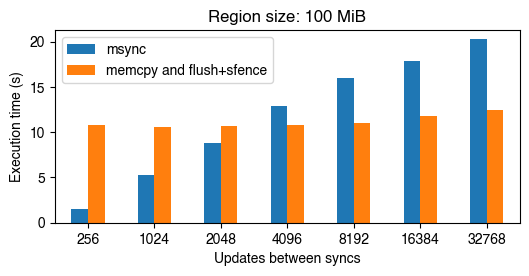
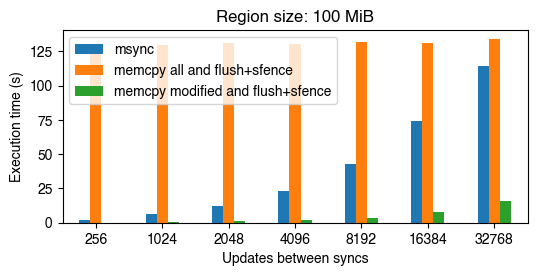
Add support for selective memcpy to periodic-msync

diff --git a/src/examples/periodic-msync.cc b/src/examples/periodic-msync.cc
@@ -12,27 +12,39 @@
 #include <immintrin.h>
 
 using hrc = std::chrono::high_resolution_clock;
-constexpr size_t MAP_SIZE = 100*1024*1024; // 100 MiB
+constexpr size_t MAP_SIZE = 1024*1024*1024; // 100 MiB
 
 char *buf, *vol_buf, *pm_buf;
 
+#define CL_ALIGN(val) ((typeof(val))(((uint64_t)val>>6)<<6))
+
 void us_msync(void *addr, size_t bytes) {
+  /* Copy the pm_buf to vol_buf and then flush every pm_buf location to the
+     device */
   std::memcpy(pm_buf, vol_buf, bytes);
   for (size_t cur_b = 0; cur_b < bytes; cur_b+=64) {
+    /* CLWB takes a location and writes back the containing cacheline */
     _mm_clwb((void*)((char*)pm_buf+cur_b));
   }
   _mm_sfence();
 }
 
-void flush_locations(const std::vector<void*> &locs) {
-  // std::memcpy(pm_buf, vol_buf, bytes);
-  // for (size_t cur_b = 0; cur_b < bytes; cur_b+=64) {
-  //   _mm_clwb((void*)((char*)pm_buf+cur_b));
-  // }
-  // _mm_sfence();
+void flush_locations(const std::vector<void*> &locs, size_t region_sz_bytes) {
+  /* Iterate over all the locations and flush the underlying cacheline */
+  for (auto &loc : locs) {
+    void *src_loc = (char*)vol_buf + ((uint64_t)loc-(uint64_t)pm_buf);
+    void *dst_loc = loc;
+    *((uint8_t*)dst_loc) = *((uint8_t*)src_loc);
+  }
+
+  for (auto &loc : locs) {
+    _mm_clwb(loc);
+  }
+
+  _mm_sfence();
 }
 
-int main(int argc, char *argv[]) {
+int main(int argc, char *argv[]) {  
   if (argc != 4) {
     fprintf(stderr, "USAGE:\n\t%s <path to buffer> <path to backing PM file> <update count>\n",
             argv[0]);
@@ -41,7 +53,7 @@ int main(int argc, char *argv[]) {
 
   size_t update_cnt = std::stoull(argv[3]);
 
-  /* File opened on PM using mmap and flushed using msync */
+  /* File opened on PM using mmap w/o DAX and flushed using msync */
   std::string fname = std::string(argv[1]);
   int fd = open(fname.c_str(), O_RDWR);
   if (fd == -1) {
@@ -96,9 +108,34 @@ int main(int argc, char *argv[]) {
   }
   auto no_msync_time = (hrc::now()-begin).count();
 
+  iter = 0;
+
+  /* Reserve the space for the vector before starting the measurement. THis is
+     done to get the best case performance numbers */
+  std::vector<void*> locs;
+  locs.reserve(update_cnt);
+
+  begin = hrc::now();
+  while (iter++ < 4096) {
+    size_t wr_cnt = 0;
+    while (wr_cnt++ < update_cnt) {
+      size_t ind = rand()%MAP_SIZE;
+
+      /* Update the volatile buffer at ind, but record the corresponding
+         location for the pm buf */
+      locs.push_back(((char*)pm_buf) + ind);
+      vol_buf[ind] = rand();
+    }
+
+    /* Flush all the recorded locations */
+    flush_locations(locs, MAP_SIZE);
+    locs.clear();
+  }
+  auto flush_loc_time = (hrc::now()-begin).count();
+
   // std::cout << "update count,msync,memcpy and flush+sfence" << "\n";
   std::cout << update_cnt << "," << msync_time << ","
-            << no_msync_time << "\n";
+            << no_msync_time << "," << flush_loc_time << "\n";
 
   // system(("cat /proc/" + std::to_string(getpid()) + "/maps").c_str());
   
